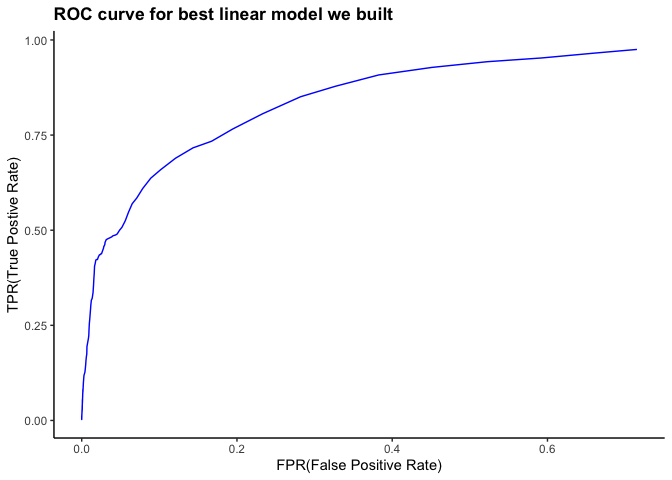
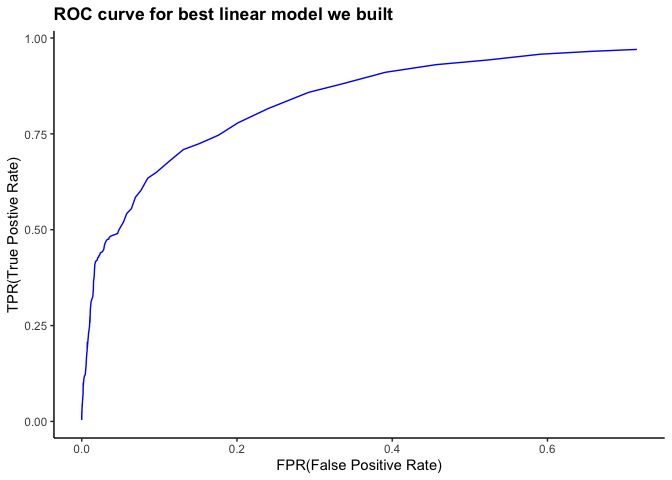
Almost finish

diff --git a/Exercise 2/ECO-395M-exercise-2.md b/Exercise 2/ECO-395M-exercise-2.md
@@ -14,20 +14,74 @@ meaningful interaction variables like `livingArea:lotSize`
 `heating:fuel` To evaluate the model performance we making, we compared
 the rmse of the model with the medium model.
 
-    ## [1] 62075.44
+    ## [1] 63508
 
-    ## [1] 60675.85
+    ## [1] 63036.01
 
 Top one is rmse is for medium\_rmse, below one is rmse for model we
 made. Our model seems to do better at achieving lower out-ot-sample
 mean-squared error.
 
-    ## [1] 25
+    ## [1] 27
 
 After running the RMSE for different levels of K, we found that
 consistently one of the lowest estimators for Price given our KNN
 estimate is K=15. We will use K=10 as our value in the bakeoff against
 the the linear model.
+
+<table>
+<thead>
+<tr class="header">
+<th style="text-align: right;">RMSE_RNN</th>
+<th style="text-align: right;">RMSE_LM</th>
+</tr>
+</thead>
+<tbody>
+<tr class="odd">
+<td style="text-align: right;">68874.00</td>
+<td style="text-align: right;">60522.44</td>
+</tr>
+<tr class="even">
+<td style="text-align: right;">80261.17</td>
+<td style="text-align: right;">73837.36</td>
+</tr>
+<tr class="odd">
+<td style="text-align: right;">71531.15</td>
+<td style="text-align: right;">63298.66</td>
+</tr>
+<tr class="even">
+<td style="text-align: right;">75192.72</td>
+<td style="text-align: right;">62813.05</td>
+</tr>
+<tr class="odd">
+<td style="text-align: right;">72813.62</td>
+<td style="text-align: right;">68170.94</td>
+</tr>
+<tr class="even">
+<td style="text-align: right;">74524.28</td>
+<td style="text-align: right;">64321.43</td>
+</tr>
+</tbody>
+</table>
+
+<table>
+<thead>
+<tr class="header">
+<th style="text-align: left;"></th>
+<th style="text-align: right;">x</th>
+</tr>
+</thead>
+<tbody>
+<tr class="odd">
+<td style="text-align: left;">V1</td>
+<td style="text-align: right;">72630.37</td>
+</tr>
+<tr class="even">
+<td style="text-align: left;">V2</td>
+<td style="text-align: right;">65791.00</td>
+</tr>
+</tbody>
+</table>
 
 ## 2) Classification and retrospective sampling
 
@@ -54,7 +108,7 @@ history.
 <tbody>
 <tr class="odd">
 <td style="text-align: left;">(Intercept)</td>
-<td style="text-align: right;">-0.43</td>
+<td style="text-align: right;">-0.90</td>
 </tr>
 <tr class="even">
 <td style="text-align: left;">duration</td>
@@ -66,7 +120,7 @@ history.
 </tr>
 <tr class="even">
 <td style="text-align: left;">installment</td>
-<td style="text-align: right;">0.20</td>
+<td style="text-align: right;">0.19</td>
 </tr>
 <tr class="odd">
 <td style="text-align: left;">age</td>
@@ -74,31 +128,31 @@ history.
 </tr>
 <tr class="even">
 <td style="text-align: left;">historypoor</td>
-<td style="text-align: right;">-1.27</td>
+<td style="text-align: right;">-1.00</td>
 </tr>
 <tr class="odd">
 <td style="text-align: left;">historyterrible</td>
-<td style="text-align: right;">-1.96</td>
+<td style="text-align: right;">-1.86</td>
 </tr>
 <tr class="even">
 <td style="text-align: left;">purposeedu</td>
-<td style="text-align: right;">0.51</td>
+<td style="text-align: right;">1.03</td>
 </tr>
 <tr class="odd">
 <td style="text-align: left;">purposegoods/repair</td>
-<td style="text-align: right;">0.09</td>
+<td style="text-align: right;">0.15</td>
 </tr>
 <tr class="even">
 <td style="text-align: left;">purposenewcar</td>
-<td style="text-align: right;">0.89</td>
+<td style="text-align: right;">0.85</td>
 </tr>
 <tr class="odd">
 <td style="text-align: left;">purposeusedcar</td>
-<td style="text-align: right;">-0.74</td>
+<td style="text-align: right;">-0.83</td>
 </tr>
 <tr class="even">
 <td style="text-align: left;">foreigngerman</td>
-<td style="text-align: right;">-1.03</td>
+<td style="text-align: right;">-0.97</td>
 </tr>
 </tbody>
 </table>
@@ -185,11 +239,11 @@ out-of-sample correct classifications.
 <tbody>
 <tr class="odd">
 <td style="text-align: left;">0</td>
-<td style="text-align: right;">8223</td>
+<td style="text-align: right;">8269</td>
 </tr>
 <tr class="even">
 <td style="text-align: left;">1</td>
-<td style="text-align: right;">777</td>
+<td style="text-align: right;">731</td>
 </tr>
 </tbody>
 </table>
@@ -205,7 +259,7 @@ out-of-sample correct classifications.
 </thead>
 <tbody>
 <tr class="odd">
-<td style="text-align: right;">91.37</td>
+<td style="text-align: right;">91.88</td>
 </tr>
 </tbody>
 </table>
@@ -237,13 +291,13 @@ table is Percentage of out-of-sample correct classifications
 <tbody>
 <tr class="odd">
 <td style="text-align: left;">0</td>
-<td style="text-align: right;">8121</td>
-<td style="text-align: right;">102</td>
+<td style="text-align: right;">8147</td>
+<td style="text-align: right;">122</td>
 </tr>
 <tr class="even">
 <td style="text-align: left;">1</td>
-<td style="text-align: right;">506</td>
-<td style="text-align: right;">271</td>
+<td style="text-align: right;">464</td>
+<td style="text-align: right;">267</td>
 </tr>
 </tbody>
 </table>
@@ -259,7 +313,7 @@ table is Percentage of out-of-sample correct classifications
 </thead>
 <tbody>
 <tr class="odd">
-<td style="text-align: right;">93.24</td>
+<td style="text-align: right;">93.49</td>
 </tr>
 </tbody>
 </table>
@@ -291,13 +345,13 @@ of out-of-sample correct classifications.
 <tbody>
 <tr class="odd">
 <td style="text-align: left;">0</td>
-<td style="text-align: right;">8124</td>
-<td style="text-align: right;">99</td>
+<td style="text-align: right;">8151</td>
+<td style="text-align: right;">118</td>
 </tr>
 <tr class="even">
 <td style="text-align: left;">1</td>
-<td style="text-align: right;">510</td>
-<td style="text-align: right;">267</td>
+<td style="text-align: right;">462</td>
+<td style="text-align: right;">269</td>
 </tr>
 </tbody>
 </table>
@@ -313,7 +367,7 @@ of out-of-sample correct classifications.
 </thead>
 <tbody>
 <tr class="odd">
-<td style="text-align: right;">93.23</td>
+<td style="text-align: right;">93.56</td>
 </tr>
 </tbody>
 </table>
@@ -340,27 +394,27 @@ Validating the model by testing with entirely fresh data,
 <tbody>
 <tr class="odd">
 <td style="text-align: right;">0.7152491</td>
-<td style="text-align: right;">0.9751244</td>
+<td style="text-align: right;">0.9701493</td>
 </tr>
 <tr class="even">
-<td style="text-align: right;">0.6591255</td>
+<td style="text-align: right;">0.6573853</td>
 <td style="text-align: right;">0.9651741</td>
 </tr>
 <tr class="odd">
-<td style="text-align: right;">0.5927779</td>
-<td style="text-align: right;">0.9527363</td>
+<td style="text-align: right;">0.5910376</td>
+<td style="text-align: right;">0.9577114</td>
 </tr>
 <tr class="even">
-<td style="text-align: right;">0.5220796</td>
+<td style="text-align: right;">0.5242549</td>
 <td style="text-align: right;">0.9427861</td>
 </tr>
 <tr class="odd">
-<td style="text-align: right;">0.4511638</td>
-<td style="text-align: right;">0.9278607</td>
+<td style="text-align: right;">0.4561671</td>
+<td style="text-align: right;">0.9303483</td>
 </tr>
 <tr class="even">
-<td style="text-align: right;">0.3824233</td>
-<td style="text-align: right;">0.9079602</td>
+<td style="text-align: right;">0.3911246</td>
+<td style="text-align: right;">0.9104478</td>
 </tr>
 </tbody>
 </table>
@@ -403,103 +457,103 @@ children
 <tbody>
 <tr class="odd">
 <td style="text-align: right;">1</td>
-<td style="text-align: right;">20.16261</td>
-<td style="text-align: right;">21</td>
+<td style="text-align: right;">22.01995</td>
+<td style="text-align: right;">20</td>
 </tr>
 <tr class="even">
 <td style="text-align: right;">2</td>
-<td style="text-align: right;">19.16444</td>
-<td style="text-align: right;">14</td>
+<td style="text-align: right;">18.79080</td>
+<td style="text-align: right;">30</td>
 </tr>
 <tr class="odd">
 <td style="text-align: right;">3</td>
-<td style="text-align: right;">22.51007</td>
-<td style="text-align: right;">20</td>
+<td style="text-align: right;">18.88775</td>
+<td style="text-align: right;">13</td>
 </tr>
 <tr class="even">
 <td style="text-align: right;">4</td>
-<td style="text-align: right;">20.89343</td>
-<td style="text-align: right;">22</td>
+<td style="text-align: right;">20.38525</td>
+<td style="text-align: right;">18</td>
 </tr>
 <tr class="odd">
 <td style="text-align: right;">5</td>
-<td style="text-align: right;">25.01210</td>
-<td style="text-align: right;">33</td>
+<td style="text-align: right;">23.02894</td>
+<td style="text-align: right;">26</td>
 </tr>
 <tr class="even">
 <td style="text-align: right;">6</td>
-<td style="text-align: right;">17.80914</td>
-<td style="text-align: right;">16</td>
+<td style="text-align: right;">17.47783</td>
+<td style="text-align: right;">19</td>
 </tr>
 <tr class="odd">
 <td style="text-align: right;">7</td>
-<td style="text-align: right;">19.74355</td>
-<td style="text-align: right;">20</td>
+<td style="text-align: right;">20.71752</td>
+<td style="text-align: right;">15</td>
 </tr>
 <tr class="even">
 <td style="text-align: right;">8</td>
-<td style="text-align: right;">21.60908</td>
-<td style="text-align: right;">22</td>
+<td style="text-align: right;">22.35528</td>
+<td style="text-align: right;">19</td>
 </tr>
 <tr class="odd">
 <td style="text-align: right;">9</td>
-<td style="text-align: right;">16.50885</td>
-<td style="text-align: right;">14</td>
+<td style="text-align: right;">20.62193</td>
+<td style="text-align: right;">23</td>
 </tr>
 <tr class="even">
 <td style="text-align: right;">10</td>
-<td style="text-align: right;">20.55729</td>
-<td style="text-align: right;">21</td>
+<td style="text-align: right;">19.09531</td>
+<td style="text-align: right;">20</td>
 </tr>
 <tr class="odd">
 <td style="text-align: right;">11</td>
-<td style="text-align: right;">22.24002</td>
+<td style="text-align: right;">23.39473</td>
 <td style="text-align: right;">25</td>
 </tr>
 <tr class="even">
 <td style="text-align: right;">12</td>
-<td style="text-align: right;">17.79279</td>
-<td style="text-align: right;">21</td>
+<td style="text-align: right;">21.72684</td>
+<td style="text-align: right;">17</td>
 </tr>
 <tr class="odd">
 <td style="text-align: right;">13</td>
-<td style="text-align: right;">20.24186</td>
-<td style="text-align: right;">19</td>
+<td style="text-align: right;">19.64718</td>
+<td style="text-align: right;">20</td>
 </tr>
 <tr class="even">
 <td style="text-align: right;">14</td>
-<td style="text-align: right;">23.78311</td>
-<td style="text-align: right;">23</td>
+<td style="text-align: right;">21.47798</td>
+<td style="text-align: right;">17</td>
 </tr>
 <tr class="odd">
 <td style="text-align: right;">15</td>
-<td style="text-align: right;">18.50537</td>
-<td style="text-align: right;">20</td>
+<td style="text-align: right;">18.74675</td>
+<td style="text-align: right;">19</td>
 </tr>
 <tr class="even">
 <td style="text-align: right;">16</td>
-<td style="text-align: right;">16.03320</td>
-<td style="text-align: right;">15</td>
+<td style="text-align: right;">17.11714</td>
+<td style="text-align: right;">24</td>
 </tr>
 <tr class="odd">
 <td style="text-align: right;">17</td>
-<td style="text-align: right;">19.34155</td>
-<td style="text-align: right;">17</td>
+<td style="text-align: right;">17.30995</td>
+<td style="text-align: right;">19</td>
 </tr>
 <tr class="even">
 <td style="text-align: right;">18</td>
-<td style="text-align: right;">17.87163</td>
-<td style="text-align: right;">13</td>
+<td style="text-align: right;">20.38481</td>
+<td style="text-align: right;">23</td>
 </tr>
 <tr class="odd">
 <td style="text-align: right;">19</td>
-<td style="text-align: right;">22.00828</td>
-<td style="text-align: right;">21</td>
+<td style="text-align: right;">20.95470</td>
+<td style="text-align: right;">18</td>
 </tr>
 <tr class="even">
 <td style="text-align: right;">20</td>
-<td style="text-align: right;">20.21167</td>
-<td style="text-align: right;">25</td>
+<td style="text-align: right;">17.85940</td>
+<td style="text-align: right;">17</td>
 </tr>
 </tbody>
 </table>
